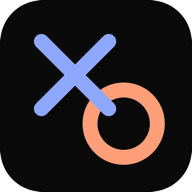
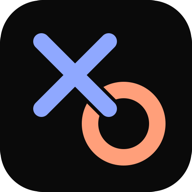
feat: knockout gap where the X crosses the O, thicker strokes
A wider background-coloured copy of the crossing arm sits under the X,
so the blue and orange never touch: the arm cuts a clean channel through
the ring. Strokes go from 40 to 44. Icons regenerated.

diff --git a/src/components/Logo.tsx b/src/components/Logo.tsx
@@ -28,6 +28,10 @@ export function Logo({ animate = false, className }: { animate?: boolean; classN
     style: animate ? ({ '--logo-delay': `${delay}ms` } as CSSProperties) : undefined,
   })
 
+  const arm1 = `M${x.cx - x.arm} ${x.cy - x.arm} L${x.cx + x.arm} ${x.cy + x.arm}`
+  const arm2 = `M${x.cx + x.arm} ${x.cy - x.arm} L${x.cx - x.arm} ${x.cy + x.arm}`
+  const armStyle = { '--mark-len': X_STROKE_LEN } as CSSProperties
+
   return (
     <svg
       viewBox={`0 0 ${LOGO.size} ${LOGO.size}`}
@@ -46,8 +50,10 @@ export function Logo({ animate = false, className }: { animate?: boolean; classN
         />
       </g>
       <g {...mark('X', X_DELAY_MS)}>
-        <path d={`M${x.cx - x.arm} ${x.cy - x.arm} L${x.cx + x.arm} ${x.cy + x.arm}`} {...common} style={{ '--mark-len': X_STROKE_LEN } as CSSProperties} />
-        <path d={`M${x.cx + x.arm} ${x.cy - x.arm} L${x.cx - x.arm} ${x.cy + x.arm}`} {...common} style={{ '--mark-len': X_STROKE_LEN } as CSSProperties} />
+        {/* Knockout: the crossing arm again in the background colour, wider, so it cuts a gap through the O. */}
+        <path d={arm1} {...common} stroke="var(--background)" strokeWidth={LOGO.stroke + 2 * LOGO.gap} style={armStyle} />
+        <path d={arm1} {...common} style={armStyle} />
+        <path d={arm2} {...common} style={{ ...armStyle, '--mark-delay': '110ms' } as CSSProperties} />
       </g>
     </svg>
   )

diff --git a/src/lib/logo.test.ts b/src/lib/logo.test.ts
@@ -38,7 +38,20 @@ describe('public/icon.svg', () => {
     expect(num(/circle cx="(\d+)"/)).toBe(LOGO.o.cx)
     expect(num(/circle cx="\d+" cy="(\d+)"/)).toBe(LOGO.o.cy)
     expect(num(/ r="(\d+)"/)).toBe(LOGO.o.r)
-    expect(svg.match(/stroke-width="(\d+)"/g)?.every((m) => m === `stroke-width="${LOGO.stroke}"`)).toBe(true)
+    const widths = (svg.match(/stroke-width="(\d+)"/g) ?? []).map((m) => Number(m.match(/\d+/)![0]))
+    expect(new Set(widths)).toEqual(new Set([LOGO.stroke, LOGO.stroke + 2 * LOGO.gap]))
+  })
+
+  it('cuts a gap in the O with a background-coloured copy of the crossing arm, drawn under the X', () => {
+    const { cx, cy, arm } = LOGO.x
+    const d = `d="M${cx - arm} ${cy - arm} L${cx + arm} ${cy + arm}"`
+    const first = svg.indexOf(d)
+    const second = svg.indexOf(d, first + 1)
+    expect(first).toBeGreaterThan(svg.indexOf('<circle'))
+    expect(second).toBeGreaterThan(first)
+    const knockout = svg.slice(svg.lastIndexOf('<path', first), svg.indexOf('/>', first))
+    expect(knockout).toContain('stroke="#0a0a0a"')
+    expect(knockout).toContain(`stroke-width="${LOGO.stroke + 2 * LOGO.gap}"`)
   })
 
   it('draws the O before the X so the X sits on top', () => {

diff --git a/src/components/Logo.test.tsx b/src/components/Logo.test.tsx
@@ -14,6 +14,16 @@ describe('Logo', () => {
     expect(svg.querySelectorAll('.logo-mark')).toHaveLength(0)
   })
 
+  it('cuts a background-coloured gap in the O where the X’s arm crosses it', () => {
+    const { container } = render(<Logo />)
+    const paths = Array.from(container.querySelectorAll('path'))
+    const arm = `M${LOGO.x.cx - LOGO.x.arm} ${LOGO.x.cy - LOGO.x.arm} L${LOGO.x.cx + LOGO.x.arm} ${LOGO.x.cy + LOGO.x.arm}`
+    const [knockout, coloured] = paths.filter((p) => p.getAttribute('d') === arm)
+    expect(knockout.getAttribute('stroke')).toBe('var(--background)')
+    expect(Number(knockout.getAttribute('stroke-width'))).toBe(LOGO.stroke + 2 * LOGO.gap)
+    expect(coloured.getAttribute('stroke')).toBe('currentColor')
+  })
+
   it('when animated, draws the O first and then the X', () => {
     const { container } = render(<Logo animate />)
     const marks = Array.from(container.querySelectorAll('.logo-mark')) as HTMLElement[]

diff --git a/src/lib/logo.ts b/src/lib/logo.ts
@@ -1,12 +1,15 @@
 /**
  * The app logo: a big X top-left and a big O bottom-right that overlap, the X's lower-right arm
- * running across the O's ring and ending inside it. One geometry, in a 512-unit box, shared by
+ * running across the O's ring and ending inside it, with a thin background-coloured
+ * gap cut around the arm so the two colours never touch. One geometry, in a 512-unit box, shared by
  * `public/icon.svg` (which repeats these numbers by hand; a test keeps them in step) and the
  * `Logo` component the splash draws.
  */
 export const LOGO = {
   size: 512,
-  stroke: 40,
+  stroke: 44,
+  /** Clear channel each side of the X's arm where it crosses the O's ring. */
+  gap: 9,
   /** X centre and half arm length; arms run corner to corner of a square of side 2*arm. */
   x: { cx: 200, cy: 200, arm: 90 },
   /** O centre and ring radius (to the stroke's middle). */

diff --git a/src/index.css b/src/index.css
@@ -228,11 +228,8 @@ body {
 .logo-mark path,
 .logo-mark circle {
   stroke-dasharray: var(--mark-len);
-  animation: mark-draw var(--mark-duration, 320ms) cubic-bezier(0.22, 1, 0.36, 1) var(--logo-delay, 0ms) both;
-}
-
-.logo-mark path:nth-of-type(2) {
-  animation-delay: calc(var(--logo-delay, 0ms) + 110ms);
+  animation: mark-draw var(--mark-duration, 320ms) cubic-bezier(0.22, 1, 0.36, 1)
+    calc(var(--logo-delay, 0ms) + var(--mark-delay, 0ms)) both;
 }
 
 .splash-rise {
